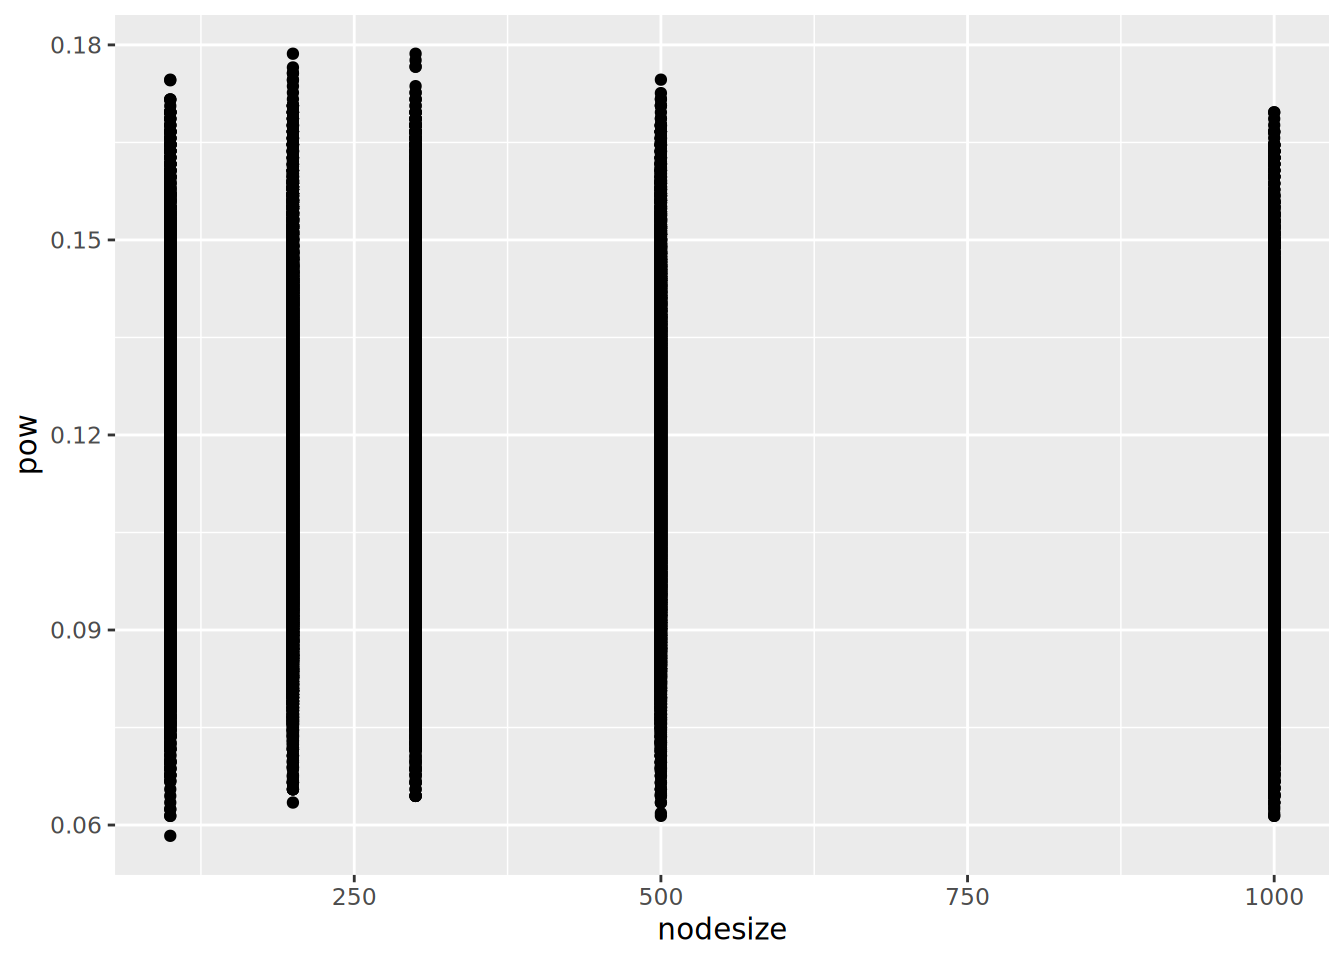
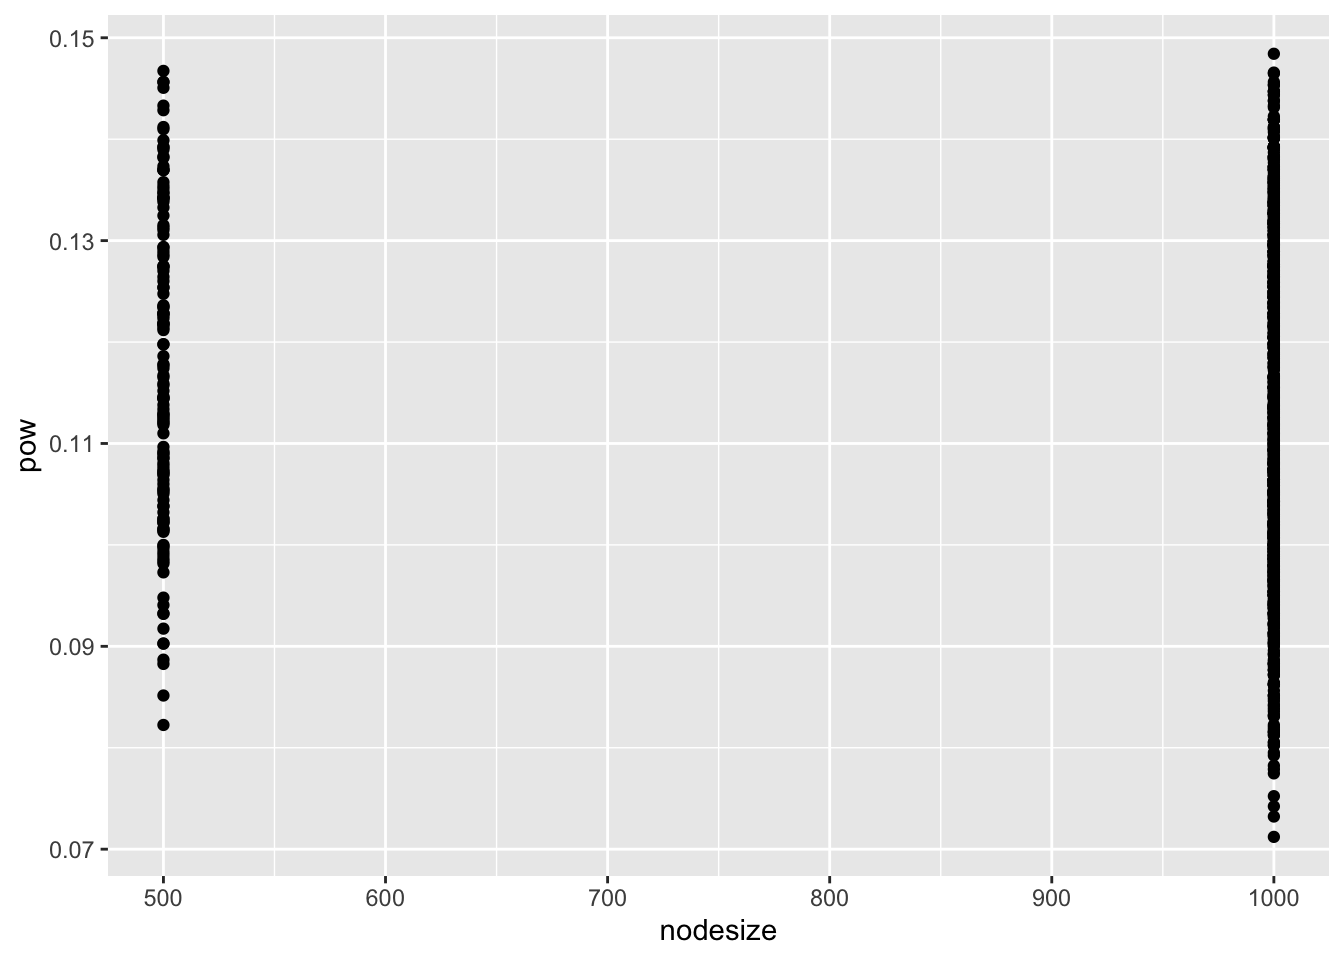
grid search vigniette

diff --git a/grid_search/20230712_show_grid_search.html b/grid_search/20230712_show_grid_search.html
@@ -124,20 +124,20 @@ pre > code.sourceCode > span > a:first-child::before { text-decoration: underlin
 <span id="cb1-19"><a href="#cb1-19" aria-hidden="true" tabindex="-1"></a><span class="co"># Print the combined data</span></span>
 <span id="cb1-20"><a href="#cb1-20" aria-hidden="true" tabindex="-1"></a><span class="fu">head</span>(grid_search_res)</span></code><button title="Copy to Clipboard" class="code-copy-button"><i class="bi"></i></button></pre></div>
 <div class="cell-output cell-output-stdout">
-<pre><code>  rjs        pow        FDP FWER     method seed   pi0s dimension     m tau
-1  98 0.09343936 0.04081633 TRUE IHW-forest    1 0.8994         2 10000 0.4
-2  95 0.09244533 0.02105263 TRUE IHW-forest    1 0.8994         2 10000 0.5
-3  98 0.09343936 0.04081633 TRUE IHW-forest    1 0.8994         2 10000 0.6
-4  99 0.09343936 0.05050505 TRUE IHW-forest    1 0.8994         2 10000 0.7
-5  99 0.09443340 0.04040404 TRUE IHW-forest    1 0.8994         2 10000 0.8
-6  87 0.08349901 0.03448276 TRUE IHW-forest    1 0.8994         2 10000 0.9
+<pre><code>  rjs       pow        FDP FWER     method seed   pi0s dimension     m tau
+1 143 0.1381781 0.05594406 TRUE IHW-forest    1 0.9023         2 10000 0.6
+2 143 0.1351075 0.07692308 TRUE IHW-forest    1 0.9023         2 10000 0.7
+3 145 0.1392016 0.06206897 TRUE IHW-forest    1 0.9023         2 10000 0.8
+4 136 0.1289662 0.07352941 TRUE IHW-forest    1 0.9023         2 10000 0.9
+5 154 0.1453429 0.07792208 TRUE IHW-forest    1 0.9023         2 10000 0.4
+6 146 0.1392016 0.06849315 TRUE IHW-forest    1 0.9023         2 10000 0.5
   ntrees nodesize
-1     20      100
-2     20      100
-3     20      100
-4     20      100
-5     20      100
-6     20      100</code></pre>
+1     50      500
+2     50      500
+3     50      500
+4     50      500
+5      5     1000
+6      5     1000</code></pre>
 </div>
 </div>
 <section id="show-completly" class="level2">
@@ -145,7 +145,7 @@ pre > code.sourceCode > span > a:first-child::before { text-decoration: underlin
 <div class="cell">
 <div class="sourceCode cell-code" id="cb3"><pre class="sourceCode r code-with-copy"><code class="sourceCode r"><span id="cb3-1"><a href="#cb3-1" aria-hidden="true" tabindex="-1"></a><span class="fu">nrow</span>(grid_search_res)</span></code><button title="Copy to Clipboard" class="code-copy-button"><i class="bi"></i></button></pre></div>
 <div class="cell-output cell-output-stdout">
-<pre><code>[1] 201600</code></pre>
+<pre><code>[1] 1400</code></pre>
 </div>
 </div>
 <div class="cell">
@@ -154,19 +154,19 @@ pre > code.sourceCode > span > a:first-child::before { text-decoration: underlin
 <span id="cb5-3"><a href="#cb5-3" aria-hidden="true" tabindex="-1"></a>  <span class="fu">head</span>()</span></code><button title="Copy to Clipboard" class="code-copy-button"><i class="bi"></i></button></pre></div>
 <div class="cell-output cell-output-stdout">
 <pre><code>  rjs       pow        FDP FWER     method seed   pi0s dimension     m tau
-1 192 0.1786427 0.06770833 TRUE IHW-forest    4 0.8998         3 10000 0.6
-2 191 0.1786427 0.06282723 TRUE IHW-forest    4 0.8998         3 10000 0.6
-3 187 0.1776447 0.04812834 TRUE IHW-forest    4 0.8998         3 10000 0.6
-4 185 0.1766467 0.04324324 TRUE IHW-forest    4 0.8998         3 10000 0.6
-5 188 0.1766467 0.05851064 TRUE IHW-forest    4 0.8998         3 10000 0.6
-6 196 0.1765286 0.08673469 TRUE IHW-forest    3 0.8986         4 10000 0.6
+1 174 0.1484230 0.08045977 TRUE IHW-forest    5 0.8922         7 10000 0.4
+2 154 0.1467337 0.05194805 TRUE IHW-forest    5 0.9005         5 10000 0.6
+3 171 0.1465677 0.07602339 TRUE IHW-forest    5 0.8922         7 10000 0.4
+4 147 0.1464700 0.05442177 TRUE IHW-forest    1 0.9051         4 10000 0.5
+5 174 0.1456401 0.09770115 TRUE IHW-forest    5 0.8922         7 10000 0.6
+6 173 0.1456401 0.09248555 TRUE IHW-forest    5 0.8922         7 10000 0.7
   ntrees nodesize
-1     10      200
-2     30      300
-3    500      300
-4    100      300
-5    200      300
-6    100      200</code></pre>
+1     30     1000
+2     50      500
+3     40     1000
+4     40     1000
+5     50      500
+6     50      500</code></pre>
 </div>
 </div>
 <div class="cell">
@@ -192,12 +192,12 @@ pre > code.sourceCode > span > a:first-child::before { text-decoration: underlin
 <pre><code># A tibble: 6 × 4
     tau ntrees nodesize   pow
   &lt;dbl&gt;  &lt;dbl&gt;    &lt;dbl&gt; &lt;dbl&gt;
-1   0.4    500      300 0.122
-2   0.4    300      500 0.122
-3   0.4     50      300 0.122
-4   0.4    100      300 0.122
-5   0.4    300      300 0.122
-6   0.4    200      300 0.122</code></pre>
+1   0.6     50      500 0.122
+2   0.4     20     1000 0.119
+3   0.7     50      500 0.118
+4   0.4     50     1000 0.118
+5   0.4     40     1000 0.117
+6   0.4     30     1000 0.117</code></pre>
 </div>
 </div>
 <div class="cell">
@@ -231,19 +231,19 @@ pre > code.sourceCode > span > a:first-child::before { text-decoration: underlin
 <div class="cell">
 <div class="sourceCode cell-code" id="cb15"><pre class="sourceCode r code-with-copy"><code class="sourceCode r"><span id="cb15-1"><a href="#cb15-1" aria-hidden="true" tabindex="-1"></a>grid_search_res <span class="sc">%&gt;%</span></span>
 <span id="cb15-2"><a href="#cb15-2" aria-hidden="true" tabindex="-1"></a>  <span class="fu">group_by</span>(tau) <span class="sc">%&gt;%</span> </span>
-<span id="cb15-3"><a href="#cb15-3" aria-hidden="true" tabindex="-1"></a>  <span class="fu">summarise</span>(<span class="at">pow =</span> <span class="fu">mean</span>(pow)) <span class="sc">%&gt;%</span></span>
-<span id="cb15-4"><a href="#cb15-4" aria-hidden="true" tabindex="-1"></a>  <span class="fu">arrange</span>(<span class="fu">desc</span>(pow)) <span class="sc">%&gt;%</span></span>
+<span id="cb15-3"><a href="#cb15-3" aria-hidden="true" tabindex="-1"></a>  <span class="fu">summarise</span>(<span class="at">mean_pow =</span> <span class="fu">mean</span>(pow), <span class="at">var_pow =</span> <span class="fu">var</span>(pow)) <span class="sc">%&gt;%</span></span>
+<span id="cb15-4"><a href="#cb15-4" aria-hidden="true" tabindex="-1"></a>  <span class="fu">arrange</span>(<span class="fu">desc</span>(mean_pow)) <span class="sc">%&gt;%</span></span>
 <span id="cb15-5"><a href="#cb15-5" aria-hidden="true" tabindex="-1"></a>  <span class="fu">head</span>()</span></code><button title="Copy to Clipboard" class="code-copy-button"><i class="bi"></i></button></pre></div>
 <div class="cell-output cell-output-stdout">
-<pre><code># A tibble: 6 × 2
-    tau   pow
-  &lt;dbl&gt; &lt;dbl&gt;
-1   0.4 0.119
-2   0.5 0.119
-3   0.6 0.117
-4   0.7 0.115
-5   0.8 0.113
-6   0.9 0.110</code></pre>
+<pre><code># A tibble: 6 × 3
+    tau mean_pow  var_pow
+  &lt;dbl&gt;    &lt;dbl&gt;    &lt;dbl&gt;
+1   0.4    0.117 0.000197
+2   0.5    0.116 0.000200
+3   0.6    0.116 0.000208
+4   0.7    0.113 0.000208
+5   0.8    0.111 0.000215
+6   0.9    0.108 0.000263</code></pre>
 </div>
 </div>
 </section>
@@ -266,18 +266,15 @@ pre > code.sourceCode > span > a:first-child::before { text-decoration: underlin
 <div class="cell">
 <div class="sourceCode cell-code" id="cb19"><pre class="sourceCode r code-with-copy"><code class="sourceCode r"><span id="cb19-1"><a href="#cb19-1" aria-hidden="true" tabindex="-1"></a>grid_search_res <span class="sc">%&gt;%</span></span>
 <span id="cb19-2"><a href="#cb19-2" aria-hidden="true" tabindex="-1"></a>  <span class="fu">group_by</span>(nodesize) <span class="sc">%&gt;%</span> </span>
-<span id="cb19-3"><a href="#cb19-3" aria-hidden="true" tabindex="-1"></a>  <span class="fu">summarise</span>(<span class="at">pow =</span> <span class="fu">mean</span>(pow)) <span class="sc">%&gt;%</span></span>
-<span id="cb19-4"><a href="#cb19-4" aria-hidden="true" tabindex="-1"></a>  <span class="fu">arrange</span>(<span class="fu">desc</span>(pow)) <span class="sc">%&gt;%</span></span>
+<span id="cb19-3"><a href="#cb19-3" aria-hidden="true" tabindex="-1"></a>  <span class="fu">summarise</span>(<span class="at">mean_pow =</span> <span class="fu">mean</span>(pow), <span class="at">var_pow =</span> <span class="fu">var</span>(pow)) <span class="sc">%&gt;%</span></span>
+<span id="cb19-4"><a href="#cb19-4" aria-hidden="true" tabindex="-1"></a>  <span class="fu">arrange</span>(<span class="fu">desc</span>(mean_pow)) <span class="sc">%&gt;%</span></span>
 <span id="cb19-5"><a href="#cb19-5" aria-hidden="true" tabindex="-1"></a>  <span class="fu">head</span>()</span></code><button title="Copy to Clipboard" class="code-copy-button"><i class="bi"></i></button></pre></div>
 <div class="cell-output cell-output-stdout">
-<pre><code># A tibble: 5 × 2
-  nodesize   pow
-     &lt;dbl&gt; &lt;dbl&gt;
-1      300 0.117
-2      200 0.117
-3      500 0.117
-4      100 0.115
-5     1000 0.111</code></pre>
+<pre><code># A tibble: 2 × 3
+  nodesize mean_pow  var_pow
+     &lt;dbl&gt;    &lt;dbl&gt;    &lt;dbl&gt;
+1      500    0.117 0.000234
+2     1000    0.113 0.000223</code></pre>
 </div>
 </div>
 </section>
@@ -300,19 +297,19 @@ pre > code.sourceCode > span > a:first-child::before { text-decoration: underlin
 <div class="cell">
 <div class="sourceCode cell-code" id="cb23"><pre class="sourceCode r code-with-copy"><code class="sourceCode r"><span id="cb23-1"><a href="#cb23-1" aria-hidden="true" tabindex="-1"></a>grid_search_res <span class="sc">%&gt;%</span></span>
 <span id="cb23-2"><a href="#cb23-2" aria-hidden="true" tabindex="-1"></a>  <span class="fu">group_by</span>(ntrees) <span class="sc">%&gt;%</span> </span>
-<span id="cb23-3"><a href="#cb23-3" aria-hidden="true" tabindex="-1"></a>  <span class="fu">summarise</span>(<span class="at">pow =</span> <span class="fu">mean</span>(pow)) <span class="sc">%&gt;%</span></span>
-<span id="cb23-4"><a href="#cb23-4" aria-hidden="true" tabindex="-1"></a>  <span class="fu">arrange</span>(<span class="fu">desc</span>(pow)) <span class="sc">%&gt;%</span></span>
+<span id="cb23-3"><a href="#cb23-3" aria-hidden="true" tabindex="-1"></a>  <span class="fu">summarise</span>(<span class="at">mean_pow =</span> <span class="fu">mean</span>(pow), <span class="at">variance_pow =</span> <span class="fu">var</span>(pow)) <span class="sc">%&gt;%</span></span>
+<span id="cb23-4"><a href="#cb23-4" aria-hidden="true" tabindex="-1"></a>  <span class="fu">arrange</span>(<span class="fu">desc</span>(mean_pow)) <span class="sc">%&gt;%</span></span>
 <span id="cb23-5"><a href="#cb23-5" aria-hidden="true" tabindex="-1"></a>  <span class="fu">head</span>()</span></code><button title="Copy to Clipboard" class="code-copy-button"><i class="bi"></i></button></pre></div>
 <div class="cell-output cell-output-stdout">
-<pre><code># A tibble: 6 × 2
-  ntrees   pow
-   &lt;dbl&gt; &lt;dbl&gt;
-1    500 0.116
-2    200 0.116
-3    300 0.116
-4    100 0.116
-5     50 0.116
-6     40 0.116</code></pre>
+<pre><code># A tibble: 6 × 3
+  ntrees mean_pow variance_pow
+   &lt;dbl&gt;    &lt;dbl&gt;        &lt;dbl&gt;
+1     50    0.115     0.000226
+2     20    0.114     0.000235
+3     30    0.113     0.000215
+4     40    0.113     0.000234
+5     10    0.113     0.000218
+6      5    0.112     0.000225</code></pre>
 </div>
 </div>
 </section>
